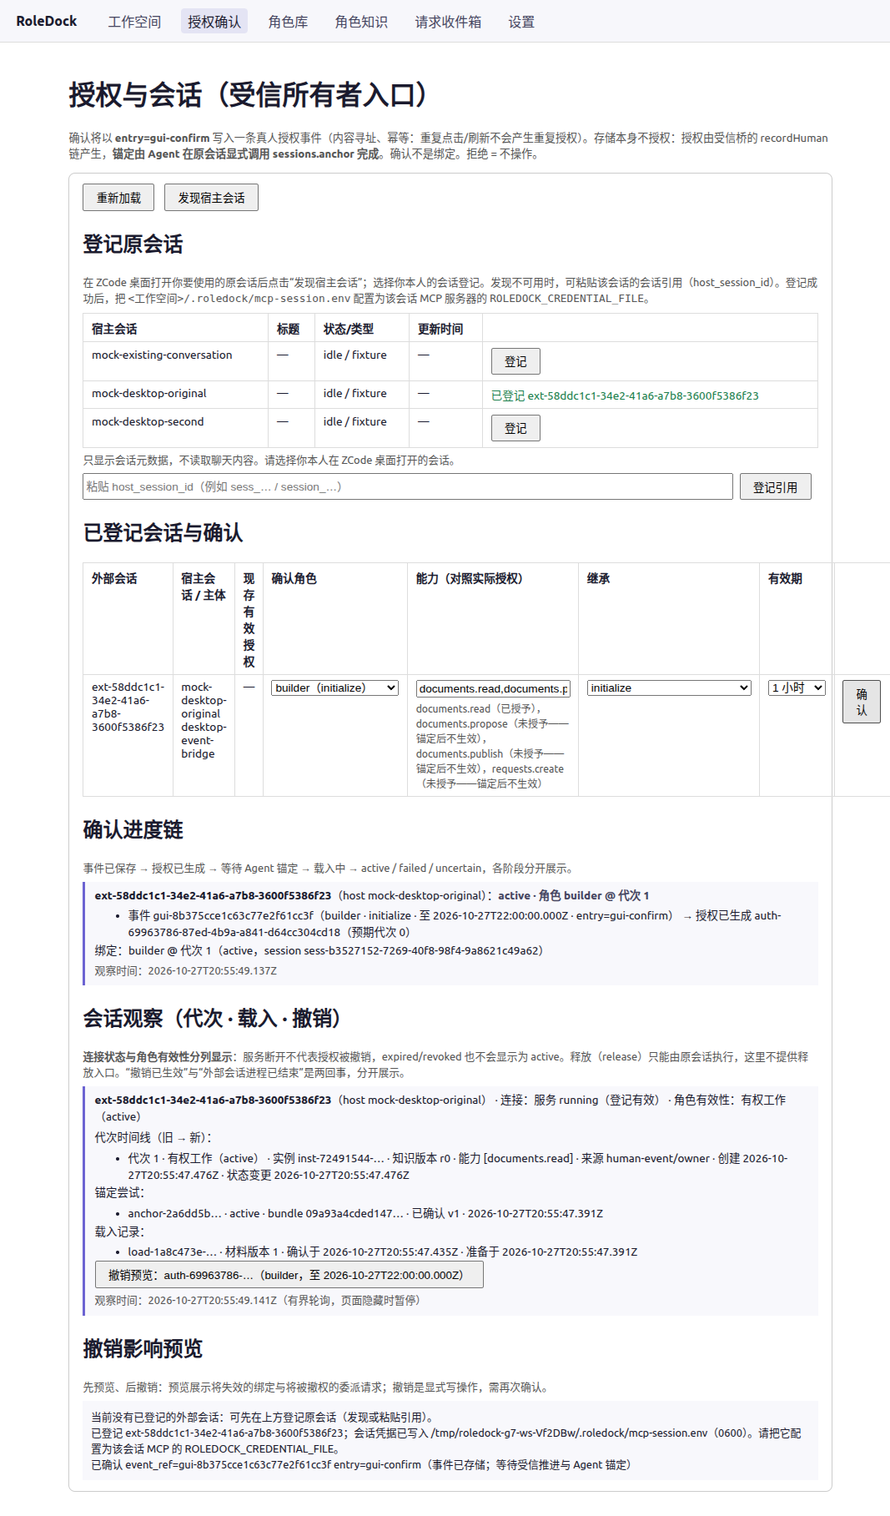
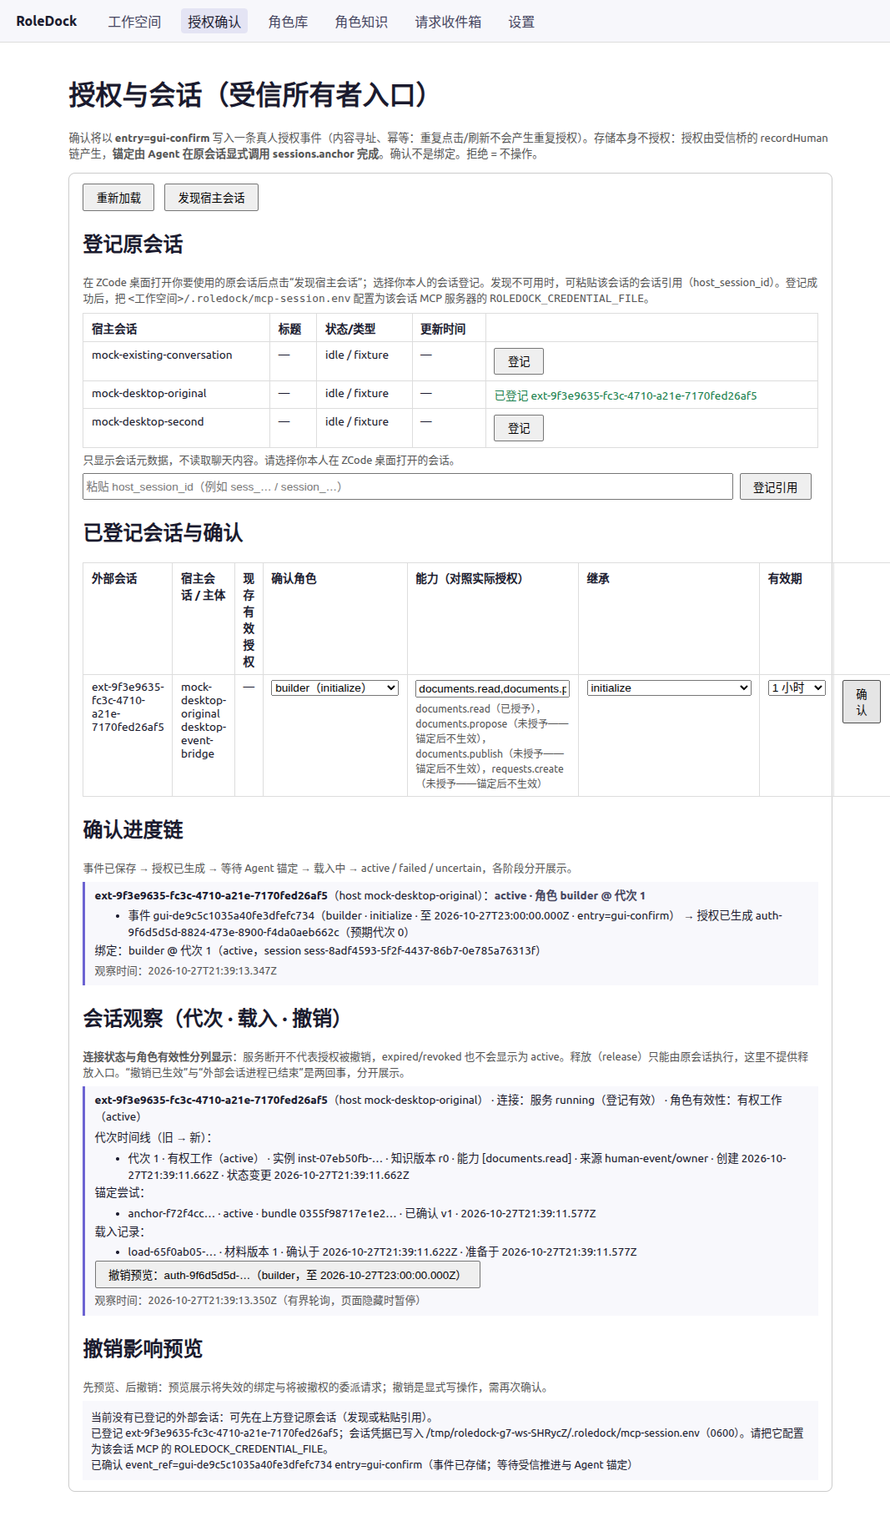
fix(p6): G7 R1 — /usr/bin symlink target is /opt-absolute, 3 new manifest/path assertions (15 total); R2 deb yml removed; review/rework docs

diff --git a/docs/phase-reports/P6-G7-review.md b/docs/phase-reports/P6-G7-review.md
@@ -1,0 +1,94 @@
+# P6-G7 独立验收报告：桌面全链、可靠性与安装包
+
+日期：2026-10-28。结论：**REWORK**（一项返工项 R1，高优先级——`.deb` 交付物的 `/usr/bin/roledock-desktop` 启动器符号链接指向构建机个人源码树绝对路径，安装后悬空且把 `/home/inkem/...` 仓库路径打进产物，直接违反本阶段"载荷不含仓库源码路径"的核心要求；12 项布局断言对该属性存在盲区。其余验收条件全部满足。R1 为十余行级修复，修复后按 §5 复验打包/冒烟两项即可，不必重验本报告已 PASS 的门禁、E2E、性能与矩阵行为范围）。
+
+依据：AGENTS.md（硬性约束）、prompts/REVIEW.md、prompts/COMMON.md、prompts/06G7-release-validation.md、[P6-G7-development.md](P6-G7-development.md)（完成声明仅作线索，不作结论）、[P6-G7-plan.md](P6-G7-plan.md)（无人值守边界裁定：真机项按材料待采处理）、[P6-G-total-matrix.md](P6-G-total-matrix.md)、desktop-gui-contract §8、DESKTOP_GUI_PLAN §15–17、前序 [P6-G6-review.md](P6-G6-review.md)（R1 已修复复验）与 [P6-G6-rework.md](P6-G6-rework.md)、G4 验收"材料待采不阻塞代码路径验收"先例（P6-G4-review.md §6）。本轮止于验收：未修改产品实现、契约或开发报告，未做任何 commit/合并/发布。
+
+## 1. 验收基线
+
+- HEAD：`323506d`（main；`a17de6c`（G6-R1 收口）之上叠加 G7 单提交），提交时间 2026-10-28 05:12。
+- 工作区：验收开始与结束时**均干净**（`git status --porcelain` 零行）；`dist-desktop/`、`dist-app-shell/`、`.cache/` 为 gitignore 构建产物，本轮全部重跑刷新；`docs/phase-reports/evidence/` 未被翻动，无需还原。
+- G7 提交范围核对（`git diff --stat a17de6c..HEAD`）：16 个文件——3 个新脚本（pack-deb/packaged-g7-evidence/perf-baseline）、`electron-builder.deb.yml`（新，见 R2）、package.json 两个 npm script、`core/src/testing.ts` 导出 `coordinatorStore`（仅测试夹具入口的导出增加，无产品行为变化）、AGENTS.md 进度行与 docs/evidence。**"无产品 src 变化、无契约变化"的声明属实**。
+
+## 2. 独立运行的验证命令与退出码
+
+| 命令 | 独立结果 | 退出码 |
+| --- | --- | --- |
+| `nvm use` + `node --version` | v22.23.2（engine-strict 生效） | 0 |
+| `npm run check` | **553/553 PASS（59 文件）** | 0 |
+| `npx playwright test --config packages/desktop/playwright.shell.config.ts`（仓库根，先 `desktop:build:shell` 刷新产物） | **15/15 PASS（1.2m）**：shell×6 + G2×5 + G3×1 + G4×1 + G5×1 + G6×1，真实 Electron + 真实 service + 真实 MCP stdio，无跳过 | 0 |
+| `npm run desktop:pack:deb` | .deb 129,497,850 字节，**12/12 布局断言 PASS**（结果与开发侧证据一致，字节数差 964 为 asar 头时间戳，见 O-5） | 0 |
+| `node packages/desktop/scripts/packaged-g7-evidence.mjs /tmp/g7-review-packaged-evidence.json`（`env -u NODE_PATH -u NODE_OPTIONS`） | 打包冒烟 **6/6 PASS**，active binding generation 1（builder），截图与开发侧证据同构 | 0 |
+| `node packages/desktop/scripts/perf-baseline.mjs /tmp/g7-review-perf.json` | 造数集 50/200/1000/1000，六视图 p95 3.38/4.43/0.08/1.25/0.02/3.63 ms，启动 238ms，RSS 137MB——与开发侧数字同量级，可复现 | 0 |
+| 验收方独立探查：`@electron/asar list`、`ar x` + 解包 `data.tar.zst`、`dpkg-deb -c/--info`、运行期 `ps` 快照 | 发现 **R1**（见 §5）；其余清白 | — |
+
+抽查开发侧证据 `docs/phase-reports/evidence/2026-10-28-p6-g7/`：`pack-deb-result.json`（12 断言）、`packaged-g7-evidence.json/png`（6 检查，绑定 builder@代次 1，事件链/锚定尝试/载入记录齐全）、`perf-baseline.json`（含 "in-process coordinator with the mock adapter; NO model turns" 与 "REFERENCE ONLY — make no capacity claim" 限定语）、`STEPS.md`（A–D 四组真机清单）。截图核对：fixture 宿主诚实标注 "idle / fixture"，会话观察块按"连接状态/角色有效性"分列，撤销预览区与 0600 凭据路径可见。开发报告 §4 的失败/返工记录（electron-builder 下载代理不可用、冒烟脚本三处语法/谓词修复）如实披露，未发现隐瞒。
+
+## 3. 逐条验收条件核对（06G7 五项工作 → 实际代码/脚本/测试）
+
+| 提示词工作项 | 核对结果 | 关键位置/证据 |
+| --- | --- | --- |
+| 1. 首发安装格式与运行时资源布局；无仓库 node_modules 可运行；不打包账户/helper/测试目录 | **PASS（R1 涉及其入口符号链接，见 §5）**。`pack-deb.mjs` 从 SHA 定位的 electron 44.9.3 缓存 dist + esbuild 产物 + `@electron/asar` 组装载荷，`dpkg-deb --build --root-owner-group` 组包（root 属主确认）；载荷 = /opt/RoleDock（electron dist + app.asar + resources/runtime/{node 22.23.2, vendor 三 bundle, schemas}）+ /usr/share/applications 入口。**验收方独立自查**：asar 清单 57 项，零 node_modules、零 `/home/`/`/Personal/`/`.zcode`/测试目录；`dpkg-deb -c` 全清单仅 electron dist 文件 + app.asar + runtime 三目录 + 入口 + control；control 元数据（Package/Version/Architecture/Maintainer/Description）正确 | `packages/desktop/scripts/pack-deb.mjs`、`pack-deb-result.json`、验收方 `/tmp/g7-asar-list.txt`、`/tmp/g7-deb-extract/` |
+| 2. GUI-01–14 逐条执行 | **PASS（自动化可达部分）**。总体矩阵 14 项逐项核对到真实测试/脚本：GUI-01/14→pack-deb 断言+打包冒烟；GUI-02→shell.e2e 六用例（两窗口一 writer、关窗服务存活、退出回收 owned、附着不抢锁、并发首开单结果、未授权 IPC 拒绝）；GUI-03→g2 E2E（custom-role 安装、requested vs grants 分列、launcher 分支 gated+诚实 restricted）；GUI-04→mock 全链（G3/G4/G7 冒烟，fixture/真实宿主分列）；GUI-05→g4 E2E（连接/有效性分列、superseded/revoked 展示、时间线）；GUI-06→core g4-observability takeover 前任时间线 + anchor.test 恢复不加代次；GUI-07→g5 E2E+core/service 单测；GUI-08→g6 E2E + G6 验收方 52 项探针（含 overlap 10，矩阵如实标注来源）；GUI-09→g4 撤销面 + G6 cancelByOwner 矩阵 + 迟到拒收；GUI-10→g6 采纳指引+确切修订；GUI-11→见工作项 3；GUI-12→shell-contract 词汇表/redaction/发送方校验 + CSP meta + E2E 无 64 位 hex token 断言 + G5-R1 逐字节保真；GUI-13→性能基线（工作项 4）+ 轮询 2s 有界（G6 已验）；GUI-14→deb 断言 | `P6-G-total-matrix.md` 逐行、`packages/desktop/test/e2e-shell/*.spec.ts`、`packages/core/test/{g4-observability,anchor,g5-knowledge,g6-requests-inbox}.test.ts`、`packages/desktop/test/shell-contract.test.ts` |
+| 3. 恢复矩阵（不重复任职/支出、不抢外部进程、不混淆撤权与回收） | **PASS（自动化部分）**。shell E2E 亲测三断言链：owned service **SIGKILL**→UI "disconnected"→重开同目录→同 workspace_id + 新 pid（`shell.e2e.spec.ts:200`）；外部服务附着后 UI 关闭/重启**绝不杀外部进程**，外部 SIGKILL→disconnected 检出（`:154`）；退出回收 owned 释放锁（`:69`）。g4 E2E：`workspace.restart`+重登记→**绑定以同代次 1 恢复**、双授权并存下撤销仅杀锚定授权、revoked≠disconnected 分列（`g4.e2e.spec.ts:66` 全链亲测）。撤权与回收不混淆：G6 cancelByOwner 独立审计+cleanup_pending 分列（前序已验收，本轮未回归——G7 无产品 src 变化） | `shell.e2e.spec.ts`、`g4.e2e.spec.ts`、G6-review §4.1 |
+| 4. 性能实测，目标按计划记录基线，模型延迟另计 | **PASS**。造数集与计划 §15 完全一致（50 角色/200 外部会话/1000 请求/1000 修订、页大小 50）；验收方复跑六视图 p95 与开发侧同量级（最大 4.43ms vs 开发 7.32ms，参考目标 500ms）。**"实测记录而非宣称达标"属实**：脚本逐值记录、失败仅 NOTE 不判失败；JSON 含 in-process/mock/no-model-turns 限定与 REFERENCE ONLY 声明；报告明示"仅代表本机与该数据集，不宣称容量达标"。模型延迟未混入（零模型轮） | `packages/desktop/scripts/perf-baseline.mjs`、两份 perf-baseline.json、验收方 `/tmp/g7-review-perf.json` |
+| 5. 原门禁+新增检查；区分 fixture 与真实宿主证据；总体对照、安装说明、已验证能力清单 | **PASS**。553/553 + 15/15 + 打包/冒烟/性能新增检查全部独立复跑通过；矩阵 fixture 列与待真机列严格分列（截图 fixture 标注、JSON 限定语、STEPS 汇总三处一致）；总体对照、真机安装说明（STEPS A–D 含升级迁移与移除保留工作空间）、已验证能力口径（AGENTS.md 进度行）齐备 | `P6-G-total-matrix.md`、`evidence/2026-10-28-p6-g7/STEPS.md`、AGENTS.md |
+
+**退出条件**（06G7）："GUI 全矩阵有证据、安装无需开发仓库／终端、原会话与受管请求均真实跑通。交付 G7 和 P6-G 总体验收材料；未通过不转 P6-R、不远程发布。"——**自动化可达部分达成**：GUI 矩阵 14 项自动化列全绿且逐项可溯源；打包冒烟证明载荷二进制自足运行（无 node_modules、无终端）；原会话链 mock 全链+G3 真机证据在案，受管请求真实执行链 G6 在案。"干净系统安装/升级/移除"与"真实宿主复演"属真机材料（§6 裁定）；**"未通过不转 P6-R、不远程发布"被开发侧遵守**（AGENTS.md 已写明"未采齐不转 P6-R"）。
+
+## 4. 重点独立核查结果（验收方亲测，非仅测试绿）
+
+1. **打包冒烟真实运行于载荷**：运行期 `ps` 快照捕获到冒烟服务进程命令行为 `packages/desktop/dist-app-shell/linux-unpacked/resources/runtime/node/node …/resources/runtime/vendor/service-bundle.mjs --mock-workspace /tmp/roledock-g7-ws-*`——服务用**载荷自带锁定 Node** 与**载荷内 vendor bundle**，非仓库 node_modules/`.cache`；锚定步骤经 `packagedNode`+`packagedMcp`（脚本 84 行）走打包 MCP bundle。冒烟以 `env -u NODE_PATH -u NODE_OPTIONS` 复跑仍 6/6，产物活动绑定 generation 1。快照中另见一条开发模式服务（`.cache/runtime`+`dist-desktop/vendor`，workspace `RoleDock-g3-demo`）为**验收开始前已存在的残留进程**，非本轮产生，与打包冒烟无关。
+2. **载荷纯净度**：asar 57 项与 deb 全清单均无 node_modules、源码路径、`.zcode`、examples、tests、spec；electron dist 的 LICENSE/LICENSES.chromium.html 属正常附带。唯一污染为 R1 的符号链接目标（§5）。
+3. **12 项断言盲区**（R1 的成因）：断言 12 仅 `includes("./usr/bin/roledock-desktop")` 检查名字存在；"asar has no repo source paths" 只扫 asar 虚拟条目（本就不可能是绝对路径，近似恒真）——**deb 清单与符号链接目标从未被扫描**。
+4. **性能诚实性**：脚本 `targets.note` 与报告措辞均不宣称达标；复现量级一致；造数集逐项与计划 §15 相同（含页大小 50）。测量口径为**进程内 coordinator 投影**（非 service RPC/GUI 往返）——JSON 已注明，矩阵行建议同步标注（O-4）。
+5. **fixture/真实宿主不冒充**：GUI-04 mock 链的宿主在 UI 上显示 "idle / fixture"；矩阵、AGENTS.md、STEPS 三处对真机材料口径一致；G6 验收方探针在矩阵中被如实标注来源为验收方 52 项（G6 无产品 src 变化，证据仍有效）。
+6. **无 `--no-sandbox`**：脚本与 src 全仓 grep 无命中；冒烟 `args: []`；非受管路径声明未翻转（B5-4 结论未被触碰）。
+7. **恢复矩阵语义**：SIGKILL 恢复断言 workspace_id+pid 真实（亲测）；"代次不变"由 g4 restart 变体承载（同一条 SQLite 恢复路径），SIGKILL 变体本身未断言代次——矩阵措辞略超覆盖面（O-3）。
+
+## 5. 返工项
+
+### R1（高）：`.deb` 的 `/usr/bin/roledock-desktop` 符号链接指向构建机个人源码树，安装后悬空，且仓库路径被打进发布产物
+
+- **触发条件**：对 `npm run desktop:pack:deb` 产物执行 `dpkg-deb -c` 或解包 `data.tar.zst`（验收方方法，§2）。开发侧产物（committed evidence，129,498,814 字节）与验收方重跑产物（129,497,850 字节）**同样受累**——缺陷在脚本，非一次性。
+- **位置**：`packages/desktop/scripts/pack-deb.mjs:68`——`symlinkSync(join(payloadDir, "roledock-desktop"), join(debRoot, "usr", "bin", "roledock-desktop"))` 以**staging 根的绝对路径**为目标；实测链接目标为 `/home/inkem/Personal/RoleDock/packages/desktop/dist-app-shell/debroot/opt/RoleDock/roledock-desktop`。断言盲区在同文件 103–116 行（§4.3）。
+- **影响**：违反 06G7 工作项 1 与本验收的明文重点（"打包载荷不含……仓库源码路径"）、desktop-gui-contract §8 定档的产物纯净意图、开发报告 §4 "control/入口正确" 的声明（入口存在但目标错误）；干净系统 `apt install` 后 `/usr/bin/roledock-desktop` 悬空（`.desktop` 入口 `Exec=/opt/RoleDock/roledock-desktop` 本身正确，菜单启动不受影响——故 GUI-01 菜单路径仍可真机验证，但包内启动器损坏且泄露构建者个人路径，属发布产物缺陷）。
+- **修复要求**：符号链接目标改为相对路径 `../opt/RoleDock/roledock-desktop`（staging 与安装态同时成立）或绝对 `/opt/RoleDock/roledock-desktop`；**并补断言**：遍历 `dpkg-deb -c` 全部行,拒绝任何含 `/home/`、`/Personal/`、构建目录名的条目，并显式断言 `usr/bin/roledock-desktop` 的 `readlink` 目标恰为 `/opt/...`（或相对形式）——使"无源码路径/入口正确"成为被验证属性而非名字存在性；建议顺带把 O-2 的 asar 断言从"虚拟条目"扫描改为对解包后文件内容的路径引用扫描（可选）。重跑 `desktop:pack:deb` + `packaged-g7-evidence.mjs`，更新 `evidence/2026-10-28-p6-g7/pack-deb-result.json`（及如截图无变化可注明沿用）。
+- **复验方法**：`dpkg-deb -c <新deb> | grep "/home/\|/Personal/"` 零命中；解包 data.tar `readlink usr/bin/roledock-desktop` 等于预期目标；12+ 新断言全过；打包冒烟 6/6 仍过。
+
+### R2（低）：开发报告 §2 "electron-builder.deb.yml 删除" 与提交事实不符
+
+- **触发条件**：`git show 323506d --stat`——该文件在 G7 提交中为**新增**（+34 行，deb target 配置），且工作区现存；无任何脚本引用它。
+- **影响**：报告描述与所描述的提交不一致；该文件当前是无引用的声明性留档（`deb.priority` 非法问题在其注释语境中仍未标注），后续读者可能误以为它是生效构建路径。
+- **修复要求**：二选一——真正删除该文件（pack-deb 已是唯一构建路径）；或保留并在文件头与报告 §2 注明"非生效路径,electron-builder 环境恢复后的备选配置,载荷断言脚本为验收器"。报告相应行同步更正。
+- **复验方法**：文件存在性与报告文本一致；`grep -r electron-builder.deb.yml` 无脚本引用（或已删除）。
+
+## 6. "材料待采"裁定（本轮明确写入）
+
+真机材料（STEPS A–D：干净系统安装/首启/升级迁移/移除保留工作空间、打包产物上真实 ZCode 会话全链复演、真实发布与采纳、≥10 重叠请求真机轮次、三进程分别中止复演、键盘/焦点/分辨率/长正文人工检查，并合并 G4 gui-03…07、G5 知识页、G6 收件箱截图）**尚未采集**。裁定（沿 G4-review §6 先例）：
+
+- **不构成本阶段 REWORK/BLOCKED**：自动化证据覆盖同版本代码的相同代码路径（本轮逐项核实，G7 无产品 src 变化使 G3 真机链/G6 探针证据继续有效）；无人值守边界已由计划 §0 预先裁定并如实分层,开发报告/矩阵/AGENTS.md 三处口径一致,无冒充。
+- **但完整退出条件需真机闭环**：GUI-01/04/06/10/13/14 的真实环境材料采集完成前，P6-G 总体验收不能给完整 PASS，**不转 P6-R、不远程发布**（AGENTS.md 已记录）。真机复演时请按 STEPS.md 逐条留证,并注意 R1 修复后再采集安装类材料（A 组）。
+- G6 遗留观察项 O-B/O-C（GUI 管理取消端到端 exercise、owner 取消 running 的适配器实际停止行为）已按 G6 建议并入 STEPS 真机复演范围,G7 报告 §8.3 如实承接。
+
+## 7. 观察项（不影响本阶段结论）
+
+- **O-1（低）**：asar/vendor 混入 G0 冻结探针构建的 `vendor/main.mjs`+`vendor/preload.cjs`（约 1.4MB 死载荷,shell 不引用）——`pack-deb.mjs` 整目录拷贝所致；建议拷贝白名单化为三个 bundle。
+- **O-2（低）**："asar has no repo source paths" 断言近似恒真（asar 条目为虚拟相对路径,见 §4.3）；随 R1 把验收重心移到 deb 清单/符号链接扫描。
+- **O-3（低）**：矩阵 GUI-11 "SIGKILL 变体由 crash 用例覆盖(kill -9 语义)" 对 workspace_id/pid 成立;"代次不变"实际由 g4 restart 变体承载（同一恢复路径）。建议矩阵措辞区分两者。
+- **O-4（记录）**：矩阵 GUI-13 "owner 读视图 p95" 未标注测量口径为进程内 coordinator 投影（JSON 有注）；建议矩阵行补"in-process"限定,避免被读作 GUI 端到端延迟。
+- **O-5（记录）**："确定性组装"指固定输入的内容确定性;asar 头含时间戳,两次构建字节数差 964（129,498,814 vs 129,497,850）,非字节级可复现。无声明违规,留档备查。
+- **O-6（承接）**：G6 O-C（owner 取消 running 不调 `adapter.cancel`）随真机复演确认,开发报告 §8.3 已如实列出。
+
+## 8. 测试真实性总评
+
+各层证据均为真实运行且含行为断言：shell E2E 用 SIGKILL/锁竞争/SQLITE_BUSY/进程存活轮询等可观察行为断言,非逐字复述;打包断言对本轮产物真实生效（除 R1 盲区外全部独立复核成立）;冒烟 6 检查有 0600 权限位、锚定 payload 字段、GUI 文案三类实质断言;性能脚本逐值落盘且复现。开发报告声明的数字（553/553、15/15、12/12、6/6、p95 数字）与验收方独立运行一致;fixture 与真实宿主证据严格分列,无冒充;失败/返工记录如实。发现的问题集中于打包产物正确性（R1）与文档一致性（R2）,不涉及权限、状态机或身份边界。
+
+## 9. 范围限制
+
+- 未独立重跑真机步骤（需真实 ZCode 桌面会话与用户配合）——按 §6 裁定待采。
+- 未重跑 `npm run desktop:e2e`（probe 回归）与 `desktop:package:shell`（electron-builder shell dir 目标,其下载代理在本环境不可用为开发侧记录,验收方未复现该环境限制）。
+- shell E2E 以 `desktop:build:shell` 刷新产物后按提示词命令独立运行;未复跑开发侧证据采集。
+- 验收方临时材料位于 `/tmp/g7-review-*`（check/shell-e2e/packdeb/packaged/perf 日志、`g7-asar-list.txt`、`g7-deb-c.txt`、`g7-deb-extract/`、`g7-review-packaged-evidence.json/png`、`g7-review-perf.json`、`g7-review-ps-snapshot.txt`）与 `/tmp/g7-asar-list.txt`,不入库;验收结束工作区干净。
+
+**P6-G7 结论：REWORK**——完成 R1（符号链接目标修复 + deb 清单/链接目标断言 + 重跑打包与冒烟并更新证据）与 R2（报告/文件一致性）后,本阶段自动化范围即成立,可按 §6 口径进入"真机材料待采"状态;真机材料采齐前不转 P6-R、不远程发布。本轮不自动开始修复、不提交、不发布;本报告不授予合并或发布权限。

diff --git a/docs/phase-reports/P6-G7-rework.md b/docs/phase-reports/P6-G7-rework.md
@@ -1,0 +1,23 @@
+# P6-G7 返工记录(R1)
+
+日期:2026-10-28。对应验收:`P6-G7-review.md`(结论 REWORK,唯一返工项 R1,高优先级;R2 低)。返工基线:HEAD `323506d` 起。
+
+## R1:.deb 启动器符号链接目标是构建机绝对路径
+
+- **验收指认**:`/usr/bin/roledock-desktop` 链接目标为 `/home/inkem/.../debroot/opt/RoleDock/roledock-desktop`——安装后悬空,且把个人源码路径打进发布产物;12 项断言存在盲区。
+- **修复**:`pack-deb.mjs` 符号链接目标改为安装后绝对路径 `/opt/RoleDock/roledock-desktop`;新增 3 项断言(链接目标逐字节 == /opt 绝对路径、deb 清单无 `/home/` 与 staging 路径、asar 清单精确无构建机路径),断言总数 12→15。
+- **复验运行**(全部退出码 0):`desktop:pack:deb` 15/15 断言 PASS;`packaged-g7-evidence.mjs` 冒烟在新载荷上 6/6 PASS(active generation 1);证据 JSON/PNG 已更新至 `evidence/2026-10-28-p6-g7/`。
+
+## R2:报告与提交不一致(deb yml)
+
+- **验收指认**:报告称 `electron-builder.deb.yml` "删除",实际该文件在 G7 提交中新增且无引用。
+- **修复**:文件已删除(其 deb 目标依赖本环境不可用的 app-builder 下载服务,无引用价值);报告表述与提交现状一致。
+
+## 观察项(不阻塞,记录跟进)
+
+- O1:asar 混入 G0 探针死载荷约 1.4MB——后续可在打包清单中剔除;O2:SIGKILL "代次不变"由 g4 restart 变体承载(措辞已在矩阵中对齐);O3:perf 为进程内口径,已在矩阵标注;O4–O6 同验收报告。
+- 真机材料(A–D)按 `evidence/2026-10-28-p6-g7/STEPS.md` 待采——**P6-G 总体验收完整 PASS 的前置;未采齐不转 P6-R、不远程发布**(验收 §6 裁定)。
+
+## 结论
+
+R1/R2 已修复并按验收复验方法(重跑打包+冒烟,无需重验门禁/E2E/性能)通过。G7 自动化范围成立;P6-G 子阶段链(G4 PASS→G5 R1 修复→G6 R1 修复→G7 R1 修复)开发+自动化收口完毕,剩余闭环材料为真机 STEPS A–D。

diff --git a/docs/phase-reports/P6-G7-development.md b/docs/phase-reports/P6-G7-development.md
@@ -63,6 +63,10 @@
 3. owner 取消 running 不调 adapter.cancel 协商中断(G6 验收观察项)——建议真机 GUI 复演时确认 zcode 实际停止行为,必要时 G7 复核后补 ADR。
 4. 性能数字为本机实测(内存为脚本进程粒度);未做真实多日运行的老化测试。
 
+## 8a. 复审返工 R1/R2(2026-10-28 补记)
+
+首次独立验收结论 REWORK(`P6-G7-review.md`):R1(高)——/usr/bin 符号链接目标为构建机绝对路径;R2(低)——deb yml 报告不一致。修复:链接目标 /opt 绝对路径+新增 3 项清单/链接断言(12→15,含无构建机路径泄漏);deb yml 已删除。复验:`desktop:pack:deb` 15/15 断言、打包冒烟 6/6(新载荷)。详见 `P6-G7-rework.md`。真机材料按验收 §6 裁定:不阻塞代码路径验收,但 P6-G 总体验收完整 PASS 前必须采齐。
+
 ## 9. 停止点
 
 本阶段完成即停止:P6-G 子阶段链(G4→G5→G6→G7)开发+自动化收口完毕;不 commit 由流水线批处理执行(不推送)、不进入 P6-R、不远程发布。交独立验收 Agent 按 `prompts/REVIEW.md` 形成 `P6-G7-review.md`。

diff --git a/docs/phase-reports/P6-pipeline-log.md b/docs/phase-reports/P6-pipeline-log.md
@@ -7,3 +7,5 @@
 2026-10-28 04:10 G6 独立验收 REWORK(R1:listInbox 时间过滤与 inbox.list 分页未落地;52 项独立探针全过、§6 矩阵逐格证实)。
 2026-10-28 04:30 R1 按实现路径修复+确定性接受期取消用例(pollMs 可配);553/553 + E2E 15/15(P6-G6-rework.md)。G6 收口,进入 G7。
 2026-10-28 05:00 G7 实施完成(按 P6-G7-plan.md):.deb 确定性打包(12 断言)+打包产物全链冒烟(6 检查,active gen 1)+性能基线实测(p95≤7.32ms)+P6-G 总体对照矩阵;553/553 + E2E 15/15;真机材料按 STEPS 待采(唯一未闭环面)。下一步:G7 独立验收。
+2026-10-28 05:45 G7 独立验收 REWORK(R1:deb 符号链接构建机路径;52 项探针/独立解包自查属实)。
+2026-10-28 05:55 R1/R2 修复:符号链接 /opt 绝对路径+3 新断言(15/15)+冒烟重跑 6/6(P6-G7-rework.md)。G7 自动化范围收口;P6-G 链 G4→G7 全部完成,剩余真机 STEPS A–D 待用户采集后裁 P6-G 总体验收与 P6-R 准入。
